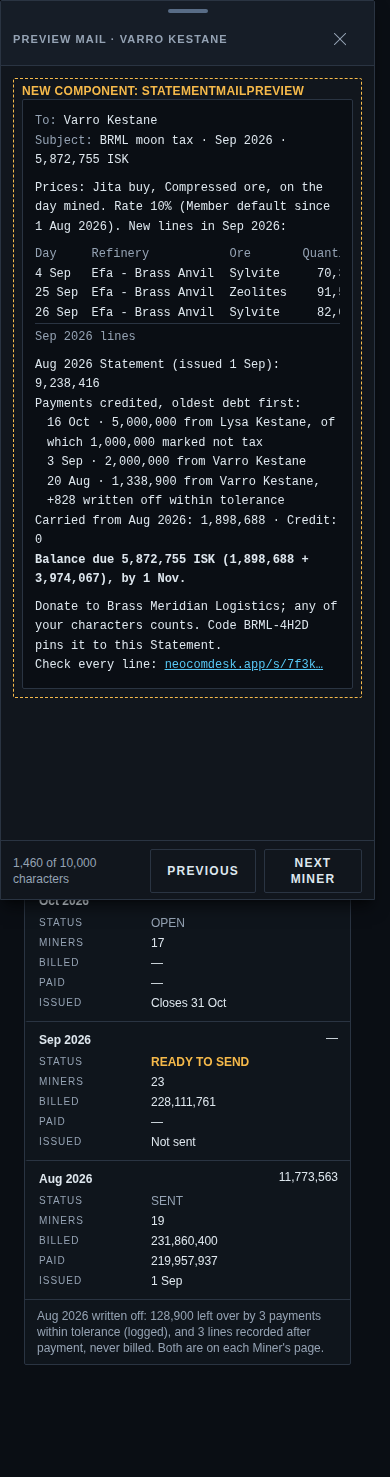
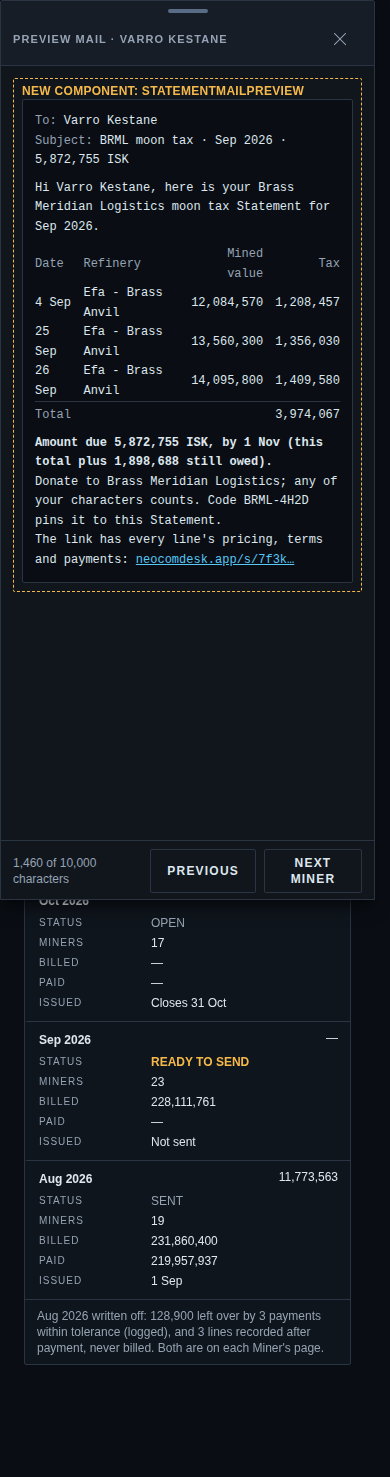
design(corp-tax-book): Statement mail is simple: date, refinery, mined value, tax, total, code, link

Changed region(s): [[0.0923, 0.0623, 0.8615, 0.4672], [0.0308, 0.4049, 0.0615, 0.4672], [0.3692, 0.0623, 0.4, 0.0934]]

diff --git a/src/mockups/CorpTaxBookFinal.stories.tsx b/src/mockups/CorpTaxBookFinal.stories.tsx
@@ -80,14 +80,7 @@ import {
   StateWord,
 } from './corpTaxBookParts';
 import { caretColumn, dayColumns, paymentColumns } from './corpTaxBookColumns';
-import {
-  MINING_PARAMS,
-  MOONS_PARAMS,
-  PHONE_GLOBALS,
-  isk,
-  isk2,
-  queueCounts,
-} from './corpTaxBookFormat';
+import { MINING_PARAMS, MOONS_PARAMS, PHONE_GLOBALS, isk, queueCounts } from './corpTaxBookFormat';
 
 /**
  * Corp Tax Book, the merged option (#4056), built on option A after Shawn's
@@ -1026,69 +1019,45 @@ function StatementMailPreview() {
           <span className="text-text-dim">Subject:</span> {m.subject}
         </p>
         <p>
-          Prices: {BOOK.hub} buy, {BOOK.oreForm} ore, on the day mined. Rate 10% (Member default
-          since {BOOK.rateFrom}). New lines in Sep 2026:
+          Hi {m.to}, here is your {CORP.name} moon tax Statement for Sep 2026.
         </p>
-        <div className="overflow-x-auto">
-          <table className="w-full min-w-[46rem] tabular-nums">
-            <thead>
-              <tr className="text-left text-text-dim">
-                <th className="pr-3 font-normal">Day</th>
-                <th className="pr-3 font-normal">Refinery</th>
-                <th className="pr-3 font-normal">Ore</th>
-                <th className="pr-3 text-right font-normal">Quantity</th>
-                <th className="pr-3 text-right font-normal">Unit price</th>
-                <th className="pr-3 font-normal">Price date · source</th>
-                <th className="pr-3 text-right font-normal">Rate</th>
-                <th className="text-right font-normal">Tax</th>
+        <table className="w-full tabular-nums">
+          <thead>
+            <tr className="text-left text-text-dim">
+              <th className="pr-3 font-normal">Date</th>
+              <th className="pr-3 font-normal">Refinery</th>
+              <th className="pr-3 text-right font-normal">Mined value</th>
+              <th className="text-right font-normal">Tax</th>
+            </tr>
+          </thead>
+          <tbody>
+            {m.lines.map((r) => (
+              <tr key={r.id}>
+                <td className="pr-3">{r.date}</td>
+                <td className="pr-3">{r.refinery}</td>
+                <td className="pr-3 text-right">{isk(r.value)}</td>
+                <td className="text-right">{isk(r.tax)}</td>
               </tr>
-            </thead>
-            <tbody>
-              {m.lines.map((r) => (
-                <tr key={r.id}>
-                  <td className="pr-3">{r.date}</td>
-                  <td className="pr-3">{r.refinery}</td>
-                  <td className="pr-3">{r.ore}</td>
-                  <td className="pr-3 text-right">{r.units.toLocaleString('en')}</td>
-                  <td className="pr-3 text-right">{isk2(r.unitPrice)}</td>
-                  <td className="pr-3">
-                    {r.priceDate} · {r.priceSource}
-                  </td>
-                  <td className="pr-3 text-right">{r.rate}%</td>
-                  <td className="text-right">{isk(r.tax)}</td>
-                </tr>
-              ))}
-              <tr className="border-t border-line">
-                <td colSpan={7} className="pt-1 text-text-dim">
-                  Sep 2026 lines
-                </td>
-                <td className="pt-1 text-right">{isk(m.newTotal)}</td>
-              </tr>
-            </tbody>
-          </table>
-        </div>
-        <p className="tabular-nums">
-          Aug 2026 Statement (issued 1 Sep): {isk(m.augBilled)}
-          <br />
-          Payments credited, oldest debt first:
-          {m.payments.map((p) => (
-            <span key={p.id} className="block pl-3">
-              {p.date.slice(0, p.date.indexOf(' ', 3))} · {isk(p.amount)} from {p.from}
-              {p.notTax ? `, of which ${isk(p.notTax)} marked not tax` : ''}
-              {p.writtenOff ? `, +${isk(p.writtenOff)} written off within tolerance` : ''}
-            </span>
-          ))}
-          Carried from Aug 2026: {isk(m.carried)} · Credit: {isk(m.credit)}
-          <br />
-          <strong>
-            Balance due {isk(m.balance)} ISK ({isk(m.carried)} + {isk(m.newTotal)}), by {m.due}.
-          </strong>
-        </p>
+            ))}
+            <tr className="border-t border-line">
+              <td colSpan={3} className="pt-1 text-text-dim">
+                Total
+              </td>
+              <td className="pt-1 text-right">{isk(m.newTotal)}</td>
+            </tr>
+          </tbody>
+        </table>
         <p>
+          <strong>
+            Amount due {isk(m.balance)} ISK, by {m.due} (this total plus {isk(m.carried)} still
+            owed).
+          </strong>
+          <br />
           Donate to {CORP.name}; any of your characters counts. Code {m.code} pins it to this
           Statement.
           <br />
-          Check every line: <span className="text-accent underline">{m.verify}</span>
+          The link has every line&apos;s pricing, terms and payments:{' '}
+          <span className="text-accent underline">{m.verify}</span>
         </p>
       </div>
     </NewComponent>
@@ -1319,7 +1288,7 @@ export const Statements = corp(() => <StatementsF step="check" />);
 /** @summary 10 · Statements, phone. */
 export const StatementsPhone = corp(() => <StatementsF step="check" />, true);
 
-/** @summary 11 · Preview mail: the Statement exactly as mailed, every line, in a dialog. New component: StatementMailPreview. */
+/** @summary 11 · Preview mail: the short Statement mail (date, refinery, mined value, tax, total, code, verify link), in a dialog. New component: StatementMailPreview. */
 export const PreviewMail = corp(() => <StatementsF step="check" preview />);
 /** @summary 11 · Preview mail, phone: a full-height sheet. */
 export const PreviewMailPhone = corp(() => <StatementsF step="check" preview />, true);

diff --git a/docs/design/mockups/corp-tax-book/README.md b/docs/design/mockups/corp-tax-book/README.md
@@ -18,7 +18,7 @@ New components (dashed, labelled): ExtractionTimeline, NeedsYouQueue, StatementR
 | 8 · Reject declaration dialog (Needs you) | ![](f-08-reject-declaration-1440.png) | ![](f-08-reject-declaration-390.png) |
 | 9 · Assign a donation dialog (Needs you, Unmatched) | ![](f-09-assign-donation-1440.png) | ![](f-09-assign-donation-390.png) |
 | 10 · Statements: run at Check, periods and write-offs | ![](f-10-statements-1440.png) | ![](f-10-statements-390.png) |
-| 11 · Preview mail (dialog): every line, payments, credit, code, verify link | ![](f-11-preview-mail-1440.png) | ![](f-11-preview-mail-390.png) |
+| 11 · Preview mail (dialog): short table of lines, total, amount due, code, verify link | ![](f-11-preview-mail-1440.png) | ![](f-11-preview-mail-390.png) |
 | 12 · Send, mail-limit notice | ![](f-12-send-notice-1440.png) | ![](f-12-send-notice-390.png) |
 | 13 · Progress chip (phone: icon + % badge, warning badge for failures) | ![](f-13-progress-chip-1440.png) | ![](f-13-progress-chip-390.png) |
 | 14 · Queue popover / sheet | ![](f-14-queue-1440.png) | ![](f-14-queue-390.png) |
